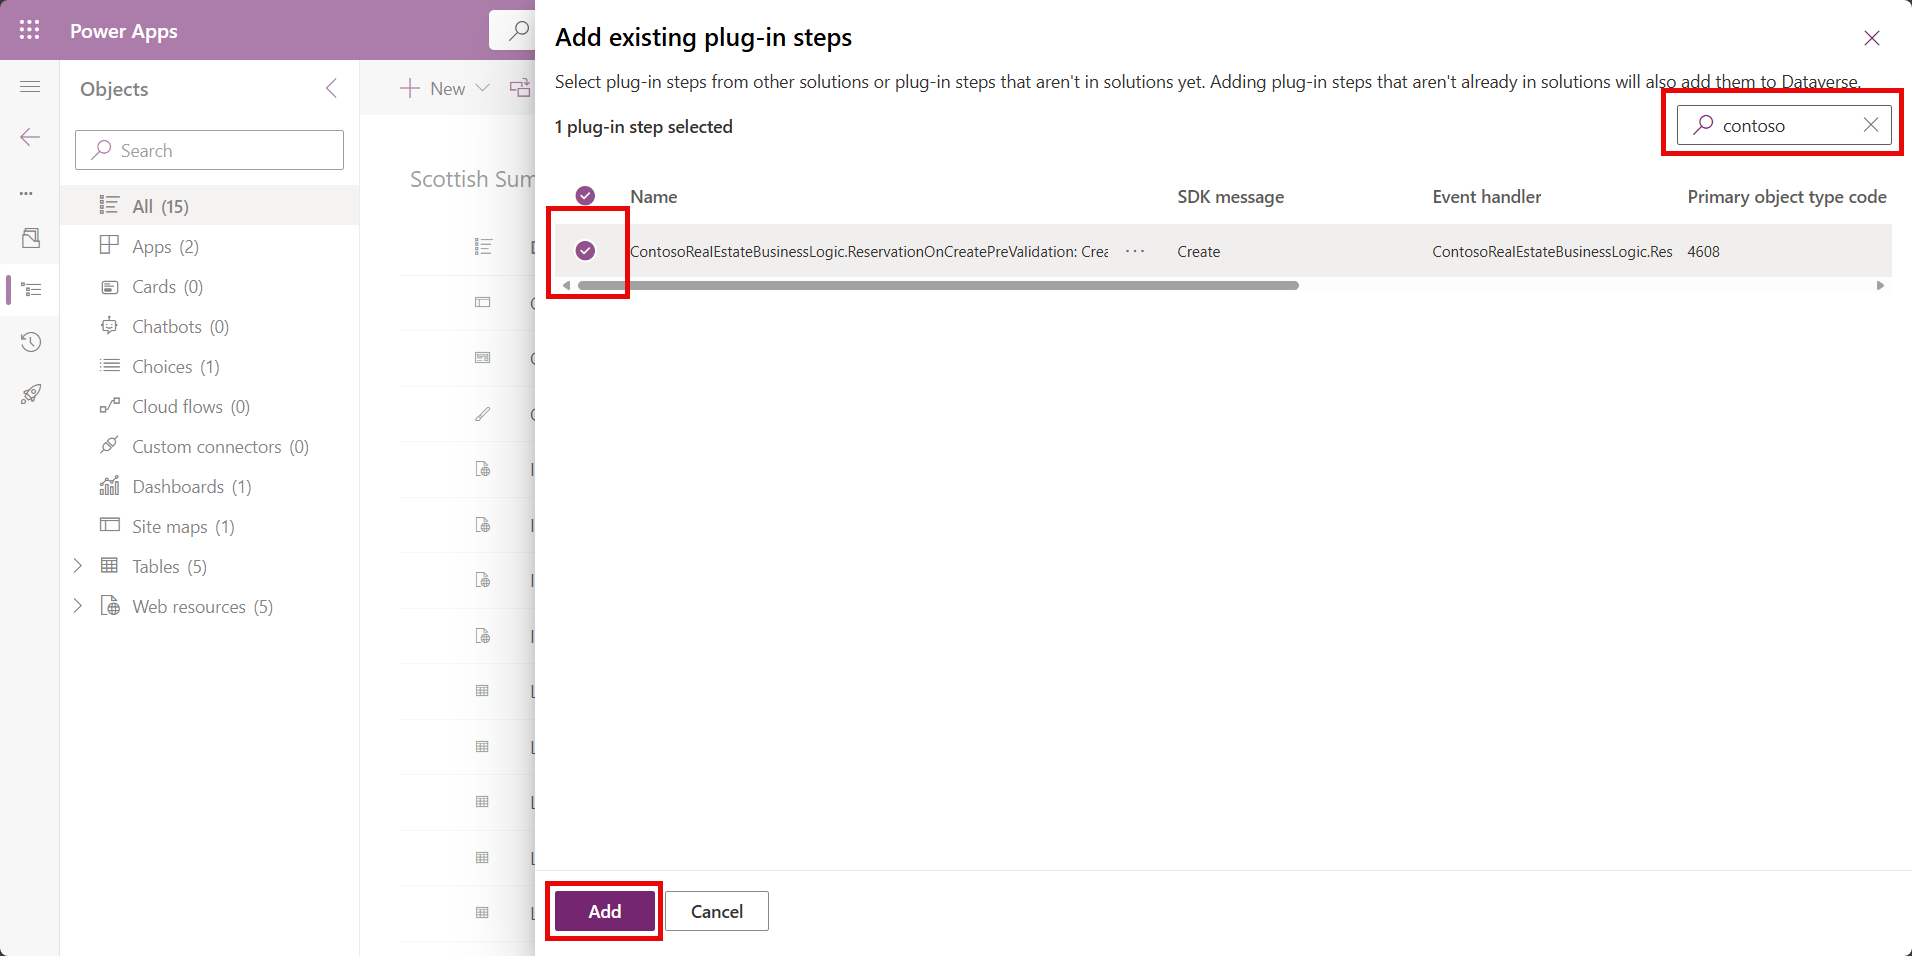
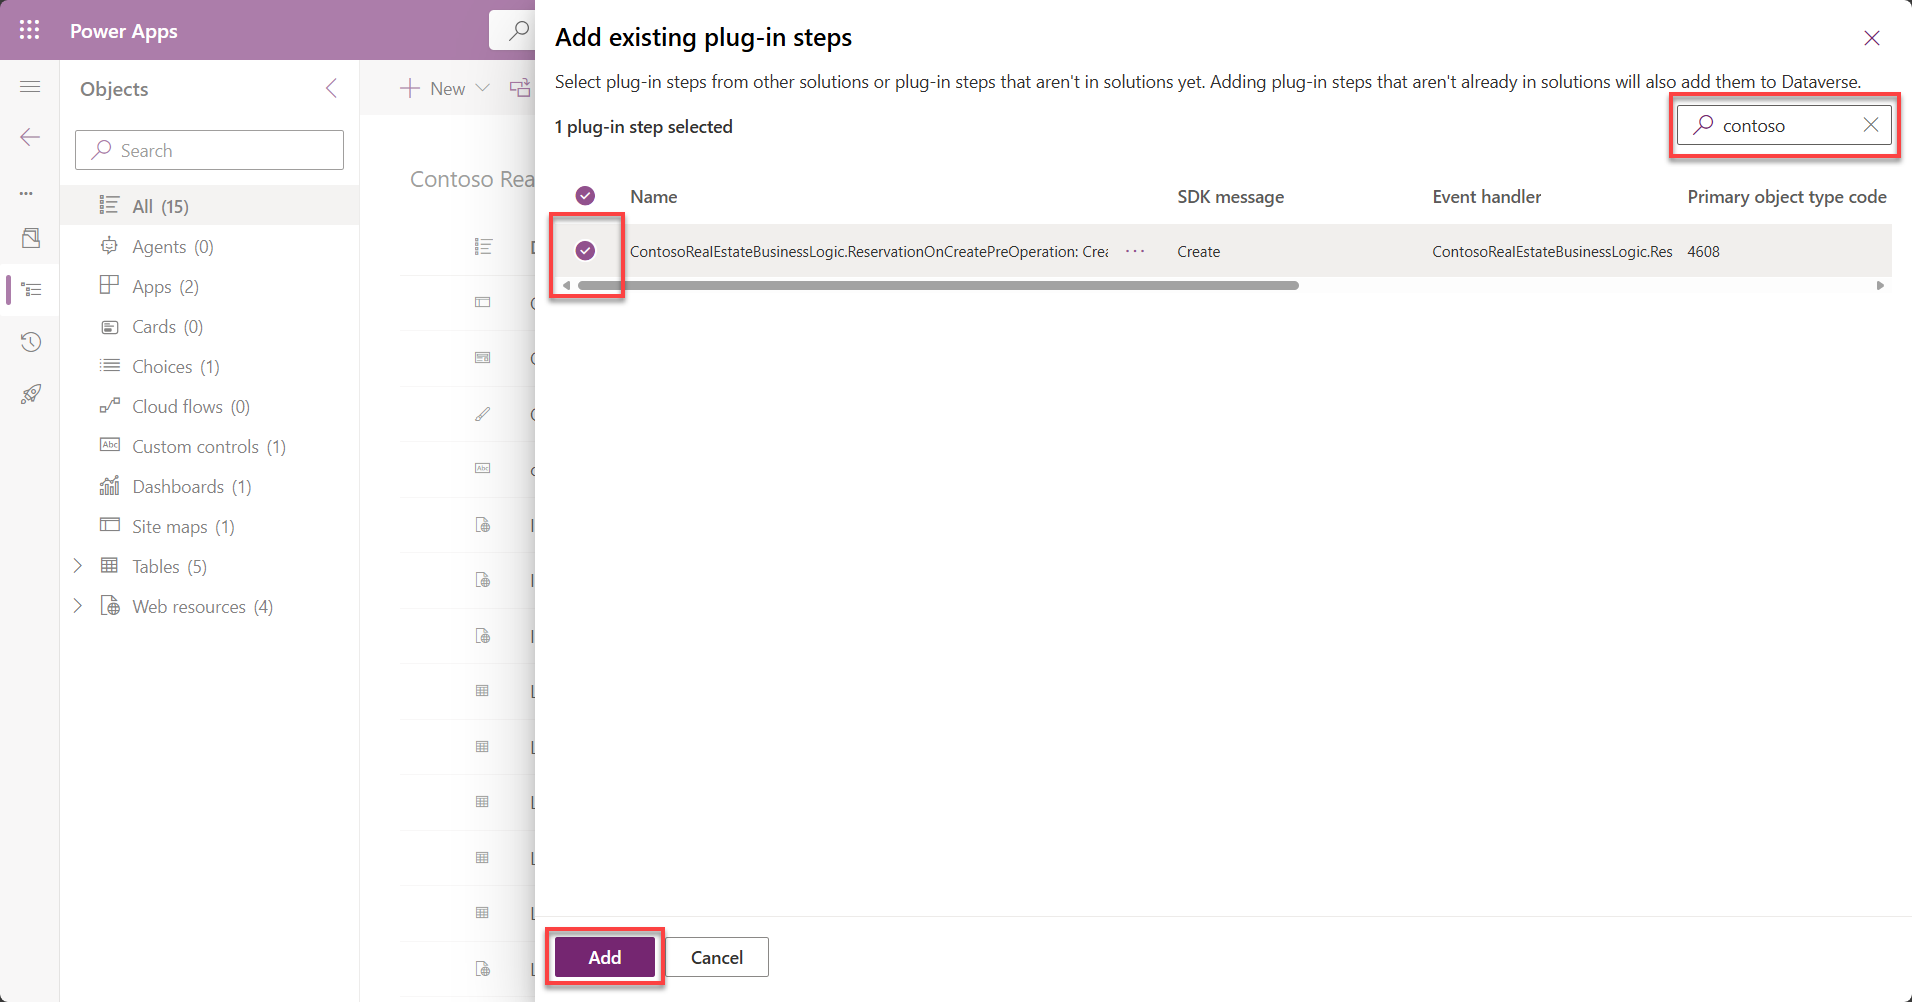
Concurrency locking in reservation plugin

diff --git a/Completed_Labs/ContosoRealEstateBusinessLogic/ReservationOnCreatePreValidation.cs b/Completed_Labs/ContosoRealEstateBusinessLogic/ReservationOnCreatePreValidation.cs
@@ -12,10 +12,10 @@ namespace ContosoRealEstateBusinessLogic
     /// Plugin development guide: https://docs.microsoft.com/powerapps/developer/common-data-service/plug-ins
     /// Best practices and guidance: https://docs.microsoft.com/powerapps/developer/common-data-service/best-practices/business-logic/
     /// </summary>
-    public class ReservationOnCreatePreValidation : PluginBase
+    public class ReservationOnCreatePreOperation : PluginBase
     {
 
-        public ReservationOnCreatePreValidation() : base(typeof(ReservationOnCreatePreValidation))
+        public ReservationOnCreatePreOperation() : base(typeof(ReservationOnCreatePreOperation))
         {
 
         }
@@ -32,6 +32,13 @@ namespace ContosoRealEstateBusinessLogic
             contoso_Reservation reservation = ((Entity)localPluginContext.PluginExecutionContext.InputParameters["Target"]).ToEntity<contoso_Reservation>();
             try
             {
+                // Lock the listing to prevent multiple reservations at the same time
+                service.Update(new contoso_listing
+                {
+                    Id = reservation.contoso_Listing.Id,
+                    contoso_Lock = Guid.NewGuid().ToString()
+                }.ToEntity<Entity>());
+
                 // check if the listing is available
                 var query = new QueryExpression()
                 {

diff --git a/Completed_Labs/ContosoRealEstateBusinessLogic.Tests/ReservationCreateUnitTests.cs b/Completed_Labs/ContosoRealEstateBusinessLogic.Tests/ReservationCreateUnitTests.cs
@@ -9,7 +9,7 @@ using System.ComponentModel.Design;
 namespace ContosoRealEstateBusinessLogic.Tests
 {
     [TestClass]
-    public class ReservationCreateUnitTests : ReservationOnCreatePreValidation
+    public class ReservationCreateUnitTests : ReservationOnCreatePreOperation
     {
 
         [TestMethod]
@@ -45,7 +45,7 @@ namespace ContosoRealEstateBusinessLogic.Tests
                 .Returns(new ParameterCollection());
 
             mockLocalPluginContext.Setup(context => context.PluginExecutionContext.MessageName).Returns("Create");
-            mockLocalPluginContext.Setup(context => context.PluginExecutionContext.Stage).Returns(10); // PreValidation
+            mockLocalPluginContext.Setup(context => context.PluginExecutionContext.Stage).Returns(20); // PreOperation
             mockLocalPluginContext.Setup(context => context.PluginExecutionContext.InputParameters).Returns(new ParameterCollection());
             mockLocalPluginContext.Setup(context => context.TracingService).Returns(mockTraceService);
             mockLocalPluginContext.Setup(context => context.OrgSvcFactory).Returns(mockOrganizationServiceFactory.Object);

diff --git a/Labs/Lab 3 - C# Plugins.md b/Labs/Lab 3 - C# Plugins.md
@@ -75,11 +75,11 @@ We will use **Visual Studio** to author our plugin to validate that there isn't 
 
       
 
-1. In the solution explorer, right click on `Plugin1`, and select Rename. Enter `ReservationOnCreatePreValidation.cs`
+1. In the solution explorer, right click on `Plugin1`, and select Rename. Enter `ReservationOnCreatePreOperation.cs`
 
 1. When prompted **Would you like to perform a rename in this project**, select **Yes**.
 
-1. Open the `ReservationOnCreatePreValidation` class, replace with the following code:
+1. Open the `ReservationOnCreatePreOperation` class, replace with the following code:
 
       ```c#
       using ContosoRealEstate.BusinessLogic.Models;
@@ -96,10 +96,10 @@ We will use **Visual Studio** to author our plugin to validate that there isn't 
           /// Plugin development guide: https://docs.microsoft.com/powerapps/developer/common-data-service/plug-ins
           /// Best practices and guidance: https://docs.microsoft.com/powerapps/developer/common-data-service/best-practices/business-logic/
           /// </summary>
-          public class ReservationOnCreatePreValidation : PluginBase
+          public class ReservationOnCreatePreOperation : PluginBase
           {
       
-              public ReservationOnCreatePreValidation() : base(typeof(ReservationOnCreatePreValidation))
+              public ReservationOnCreatePreOperation() : base(typeof(ReservationOnCreatePreOperation))
               {
       
               }
@@ -114,9 +114,17 @@ We will use **Visual Studio** to author our plugin to validate that there isn't 
       
                   var service = localPluginContext.OrgSvcFactory.CreateOrganizationService(null);
                   contoso_Reservation reservation = ((Entity)localPluginContext.PluginExecutionContext.InputParameters["Target"]).ToEntity<contoso_Reservation>();
+                  
                   try
                   {
-                      // check if the listing is available
+                      // Lock the listing to prevent multiple reservations at the same time
+                      service.Update(new contoso_listing
+                      {
+                          Id = reservation.contoso_Listing.Id,
+                          contoso_Lock = Guid.NewGuid().ToString()
+                      }.ToEntity<Entity>());
+                      
+                      // Check if the listing is available
                       var query = new QueryExpression()
                       {
                           EntityName = contoso_Reservation.EntityLogicalName,
@@ -192,7 +200,7 @@ We will use **Visual Studio** to author our plugin to validate that there isn't 
 
 1. Select **Create**.
 
-1. Right click on the **References** folder under the new project -> Migrate **packages.json to Package Reference**.
+1. Right click on the **References** folder under the new project -> Migrate **packages.json to Package Reference** -> Ok.
 
 1. Select **Tools** -> **NuGet Package Manager** -> **Manage NuGet Packages for Solution**.
 
@@ -229,7 +237,7 @@ We will use **Visual Studio** to author our plugin to validate that there isn't 
       namespace ContosoRealEstateBusinessLogic.Tests
       {
           [TestClass]
-          public class ReservationCreateUnitTests : ReservationOnCreatePreValidation
+          public class ReservationCreateUnitTests : ReservationOnCreatePreOperation
           {
       
               [TestMethod]
@@ -265,7 +273,7 @@ We will use **Visual Studio** to author our plugin to validate that there isn't 
                       .Returns(new ParameterCollection());
       
                   mockLocalPluginContext.Setup(context => context.PluginExecutionContext.MessageName).Returns("Create");
-                  mockLocalPluginContext.Setup(context => context.PluginExecutionContext.Stage).Returns(10); // PreValidation
+                  mockLocalPluginContext.Setup(context => context.PluginExecutionContext.Stage).Returns(20); // PreOperation
                   mockLocalPluginContext.Setup(context => context.PluginExecutionContext.InputParameters).Returns(new ParameterCollection());
                   mockLocalPluginContext.Setup(context => context.TracingService).Returns(mockTraceService);
                   mockLocalPluginContext.Setup(context => context.OrgSvcFactory).Returns(mockOrganizationServiceFactory.Object);
@@ -336,6 +344,7 @@ We can now deploy our plugin into Dataverse and test it
 
     1. Message: `Create`
     2. Primary Entity: `contoso_reservation`
+    3. Event Pipeline Stage of Execution: `PreOperation`
 
 12. Select **Register New Step**.    
     ![Register Plugin Step](./assets/register-plugin-step.png)
